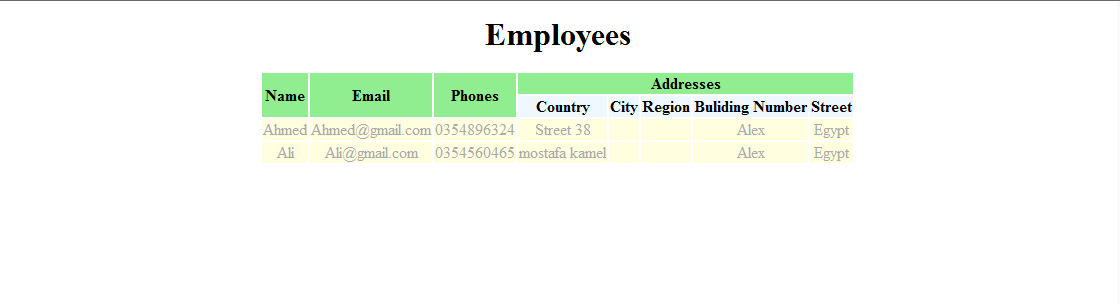
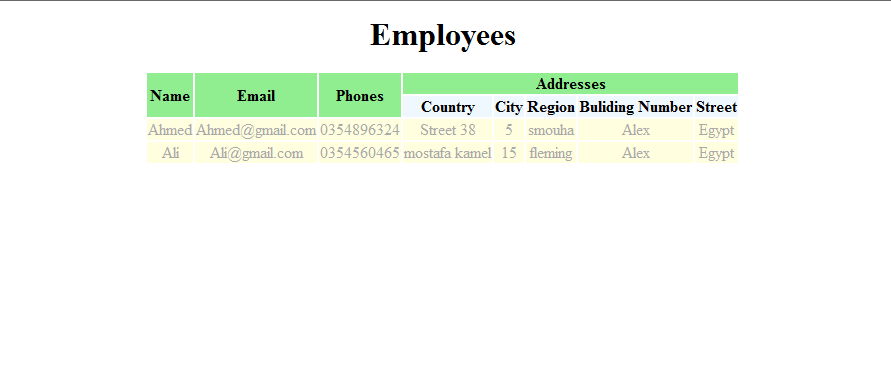
Lab

Changed region(s): [[0.1515, 0.0592, 0.8485, 0.5625], [0.0, 0.0, 1.0, 0.0296]]

diff --git a/XML/Lab3/Part2/XSL Output.html b/XML/Lab3/Part2/XSL Output.html
@@ -1,0 +1,44 @@
+<html xmlns:fo="http://www.w3.org/1999/XSL/Format">
+	<head>
+		<meta http-equiv="Content-Type" content="text/html; charset=UTF-8">
+		<title>Employees</title>
+	</head>
+	<body>
+		<h1 align="center">Employees</h1>
+		<table align="center">
+			<tr align="center" style="background:lightgreen; color:black;">
+				<th rowspan="2">Name</th>
+				<th rowspan="2">Email</th>
+				<th rowspan="2">Phones</th>
+				<th colspan="5">Addresses</th>
+			</tr>
+			<tr align="center" style="background:aliceblue; color:black;">
+				<th>Country</th>
+				<th>City</th>
+				<th>Region</th>
+				<th>Buliding Number</th>
+				<th>Street</th>
+			</tr>
+			<tr align="center" style="background:lightyellow; color:darkgrey;">
+				<td>Ahmed</td>
+				<td>Ahmed@gmail.com</td>
+				<td>0354896324</td>
+				<td>Street 38</td>
+				<td>5</td>
+				<td>smouha</td>
+				<td>Alex</td>
+				<td>Egypt</td>
+			</tr>
+			<tr align="center" style="background:lightyellow; color:darkgrey;">
+				<td>Ali</td>
+				<td>Ali@gmail.com</td>
+				<td>0354560465</td>
+				<td>mostafa kamel</td>
+				<td>15</td>
+				<td>fleming</td>
+				<td>Alex</td>
+				<td>Egypt</td>
+			</tr>
+		</table>
+	</body>
+</html>
